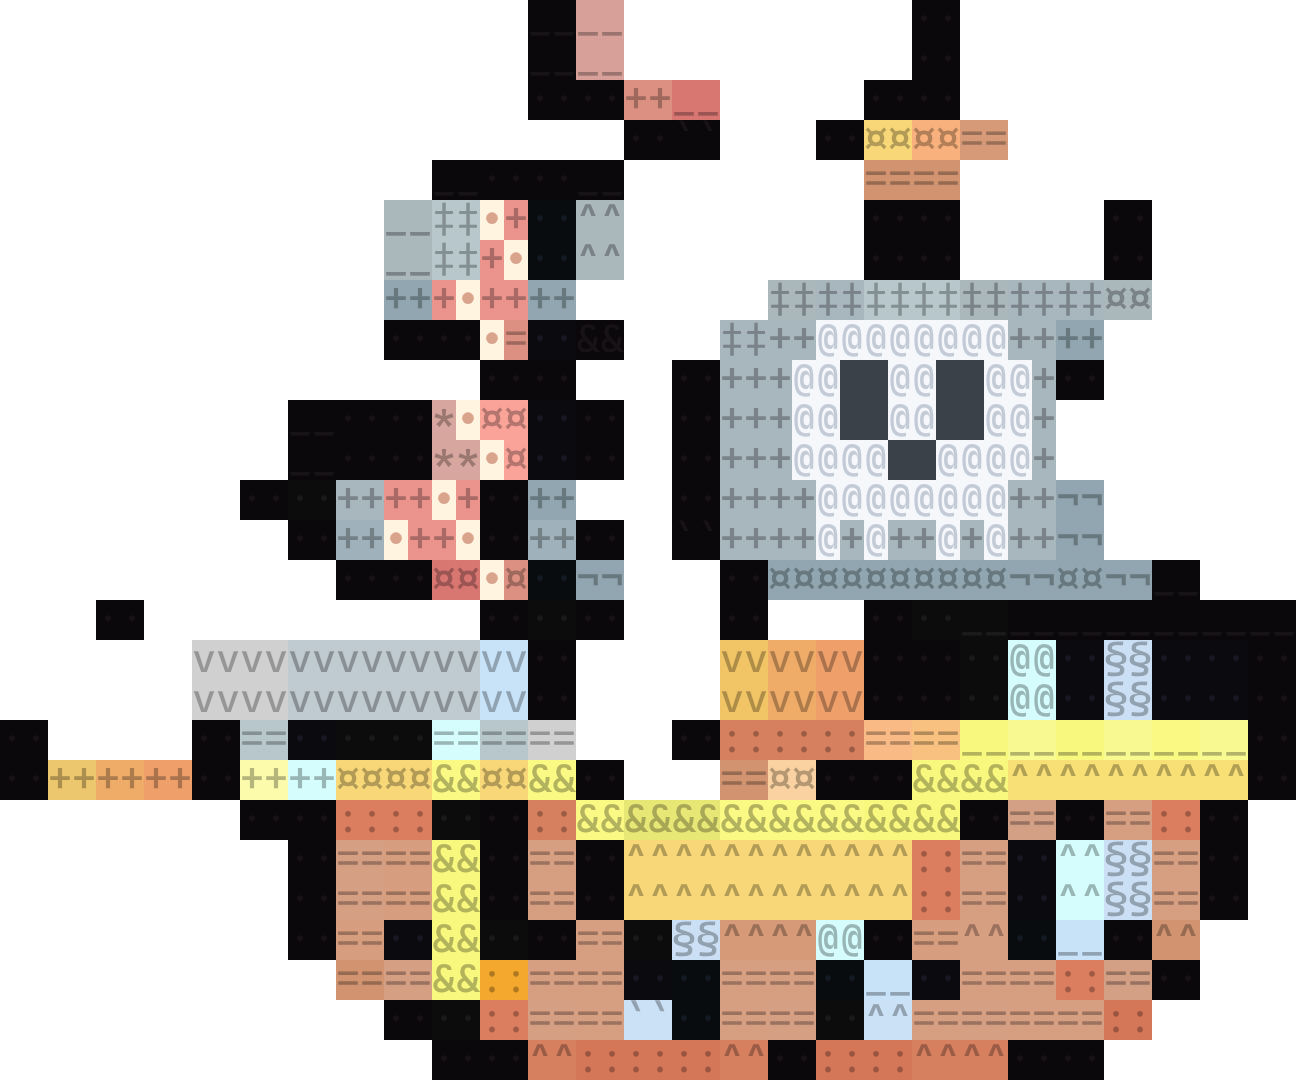
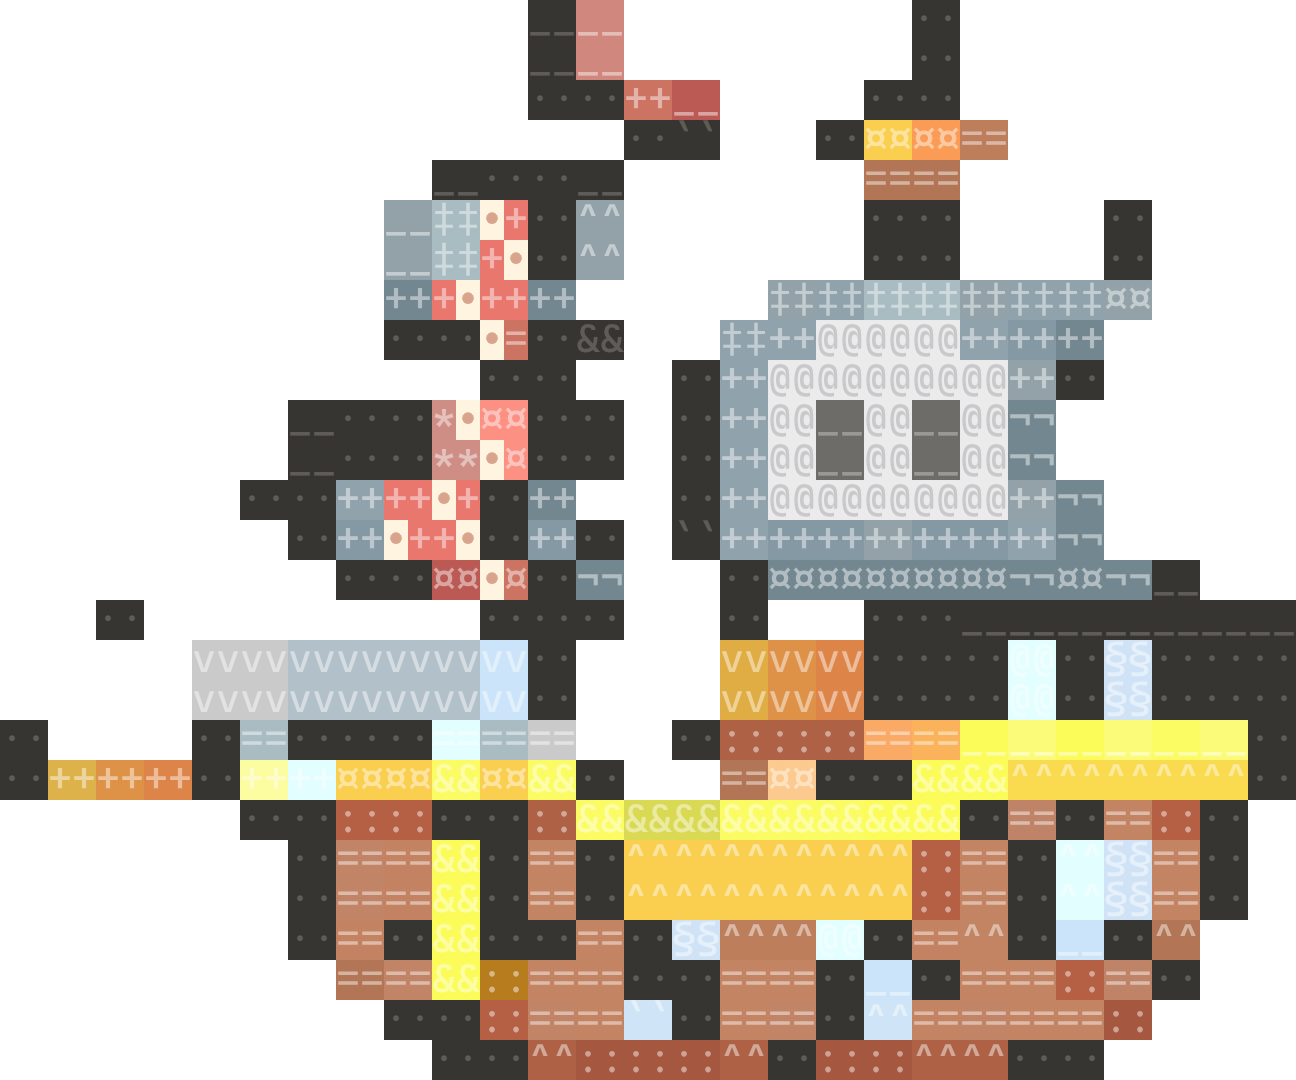
Asset Piratenschiff: weiche Pastellfarben, Totenkopf mit zweitem Auge, ohne Zähne
Claude-Session: https://claude.ai/code/session_01SdonzUkZukdS6Hs9N1LRbm

diff --git a/design/crafting-specs/shared/craft/werte.md b/design/crafting-specs/shared/craft/werte.md
@@ -20,6 +20,13 @@ Dateien:
 
 ## Variante B · Pastell, weniger Glyphen, Punkte (`variante-b-pastell-punkte.svg`)
 - **Grundlage:** das Ergebnis des Spiels bei Detail „Less“ („a pirate ship“). 54 × 27 Zellen statt 82 × 40, Zelle 6 × 10.
-- **Pastell:** die Formel des Spiels (`adjustHex(hex, -1)`: Sättigung × 0,9, Helligkeit 60 % Richtung 0,86). Fläche = Pastellfarbe, Glyphe = Pastellfarbe × 0,72. Die dunkle Kontur (Masten, Taue) bleibt dunkel.
-- **Totenkopf:** neu gesetzt, 12 Zellen breit und symmetrisch: zwei Augen (je 2 Zellen, 2 Reihen hoch), Nase (2 Zellen), Zahnreihe. `@` #C3CCD6 auf #F5F7FA, Augen und Nase #3A4148.
+- **Pastell, weich:**
+  - Fläche = 65 % Pastell des Spiels (`adjustHex(hex, -1)`) + 35 % Originalfarbe.
+  - Glyphe = Fläche, 45 % Richtung Weiß.
+  - Dunkle Zellen: Fläche #363531, Glyphe #5F5C58.
+- **Totenkopf:** der des Spiels, ergänzt:
+  - Kuppel 6 Zellen, Kopf 10 Zellen breit;
+  - zwei gespiegelte Augen `_` (#6E6C68, je 2 Zellen, 2 Reihen);
+  - keine Zähne;
+  - `@` #C9C9CC auf #EBEBEB.
 - **Überraschung:** Punkte auf beiden vorderen roten Fahnen, jede 3. Zelle diagonal versetzt (10 Punkte). `•` #D9A48C auf #FFF4E0.
